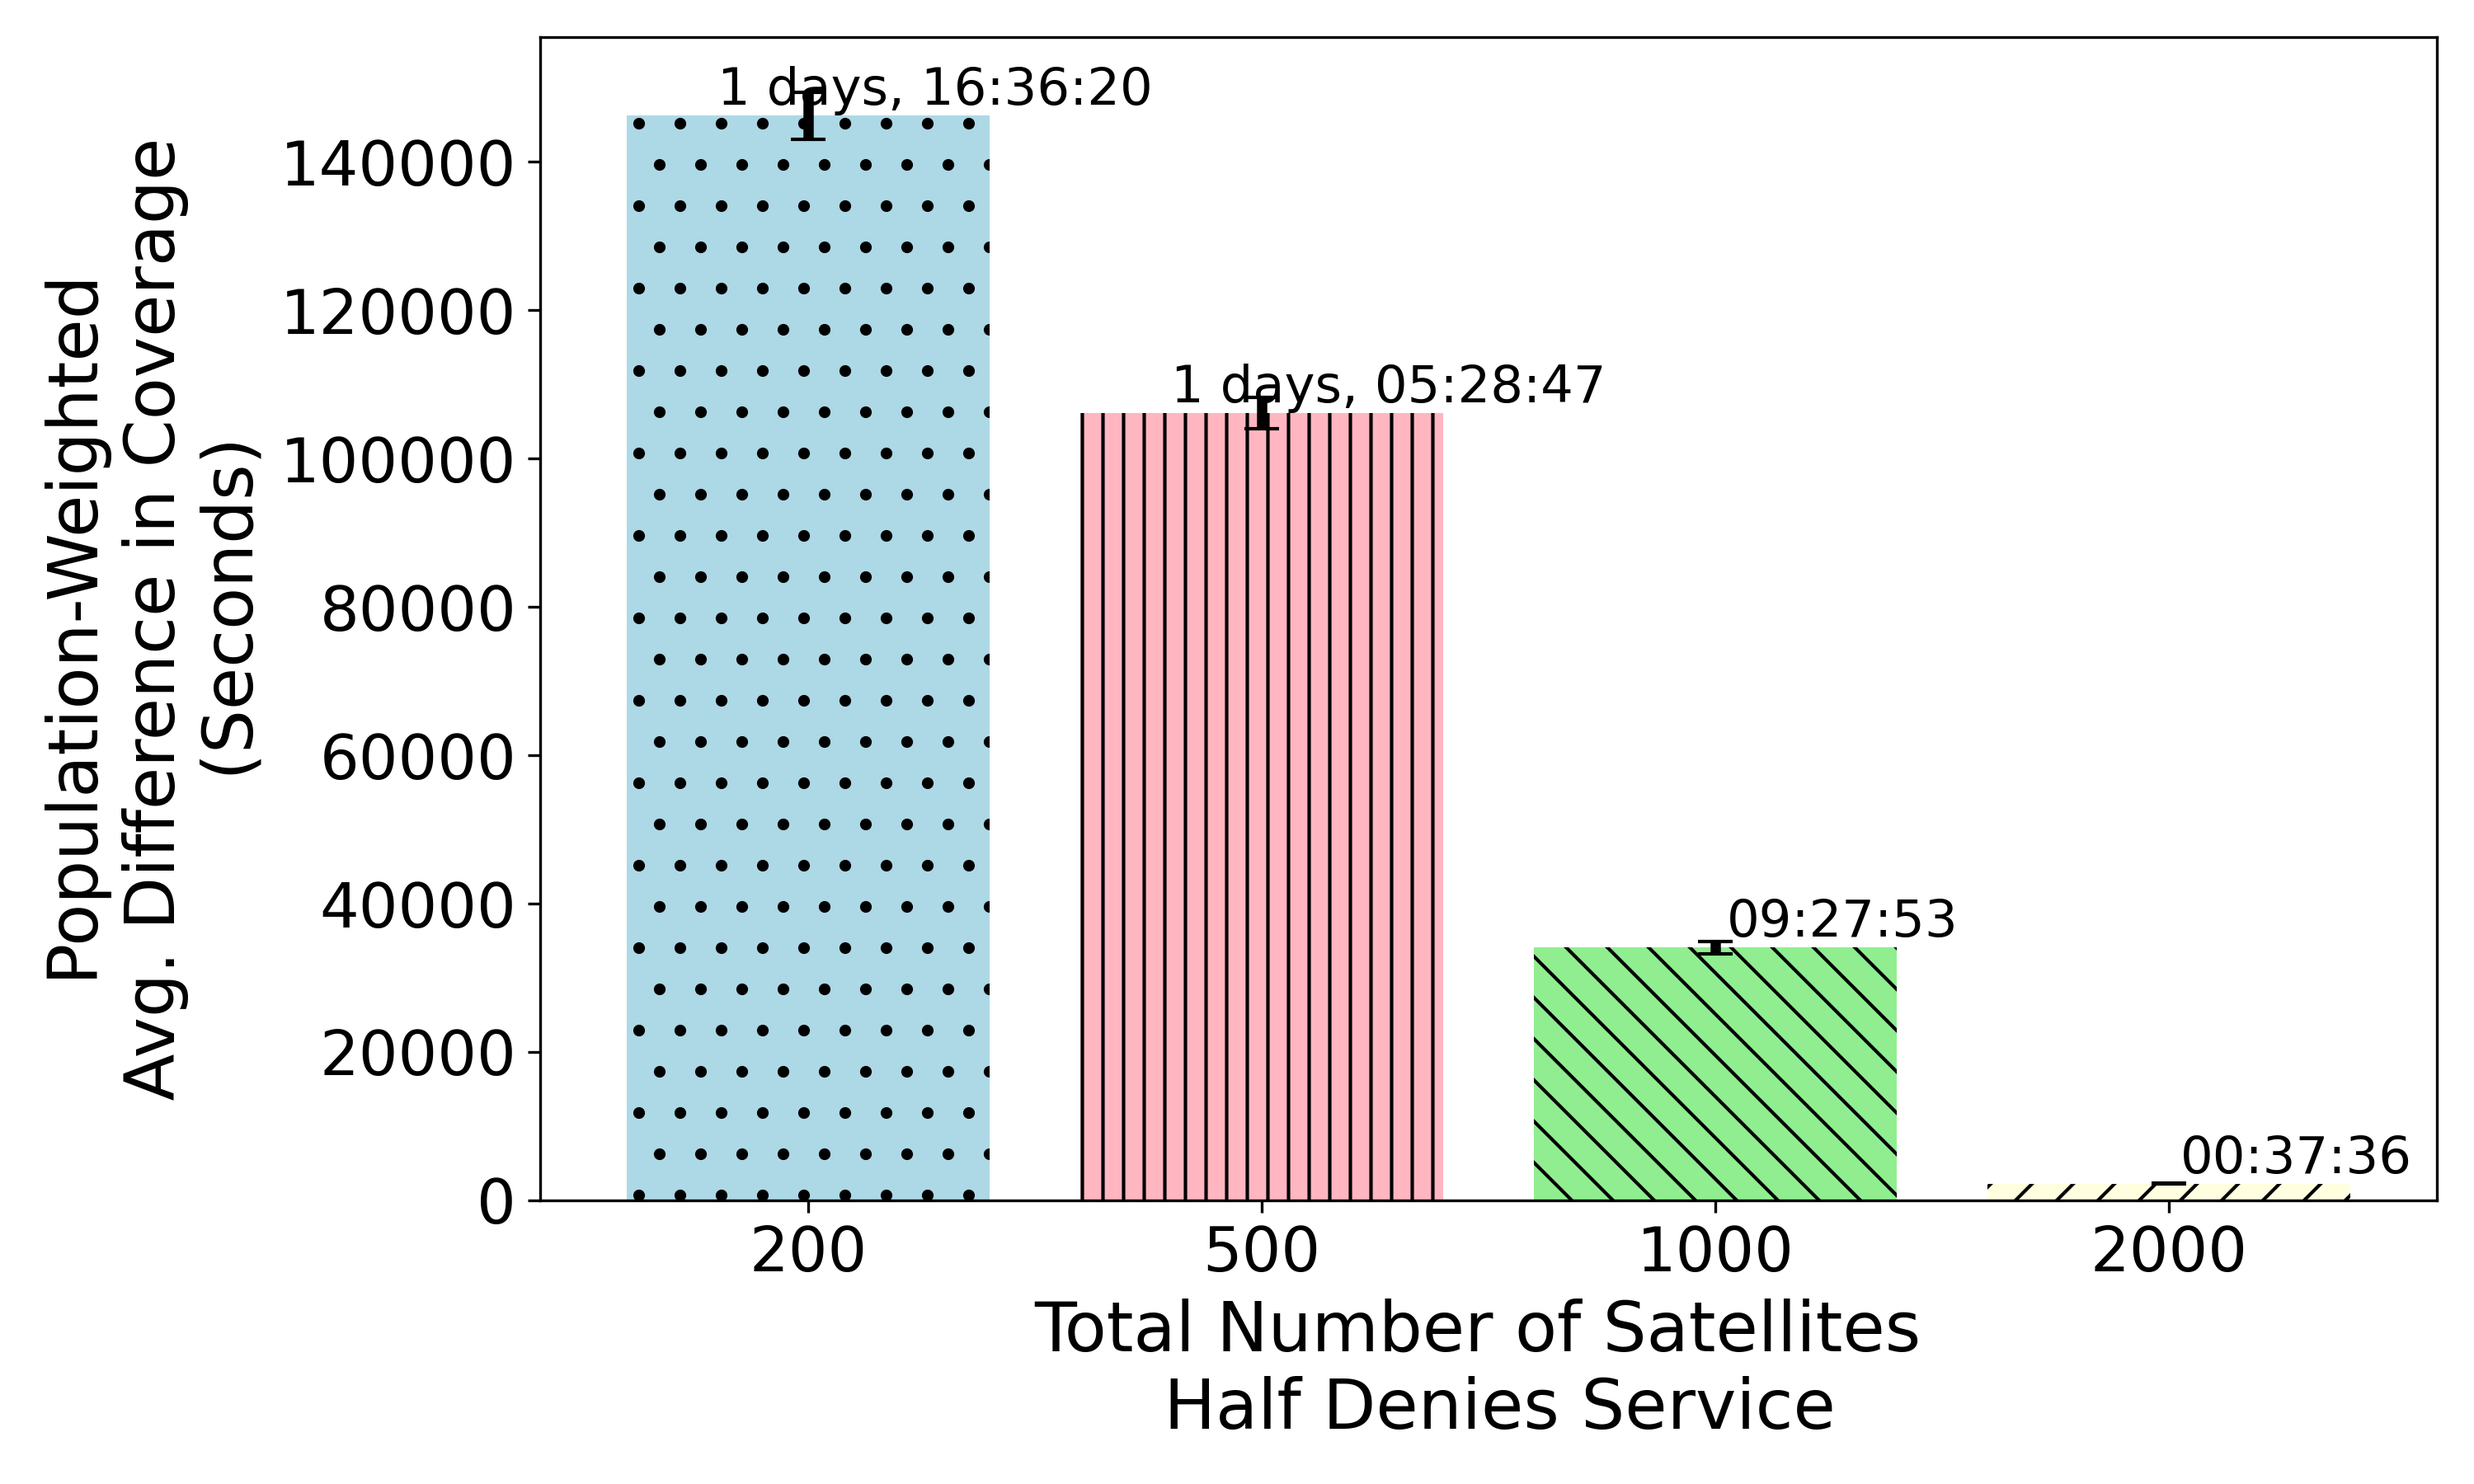
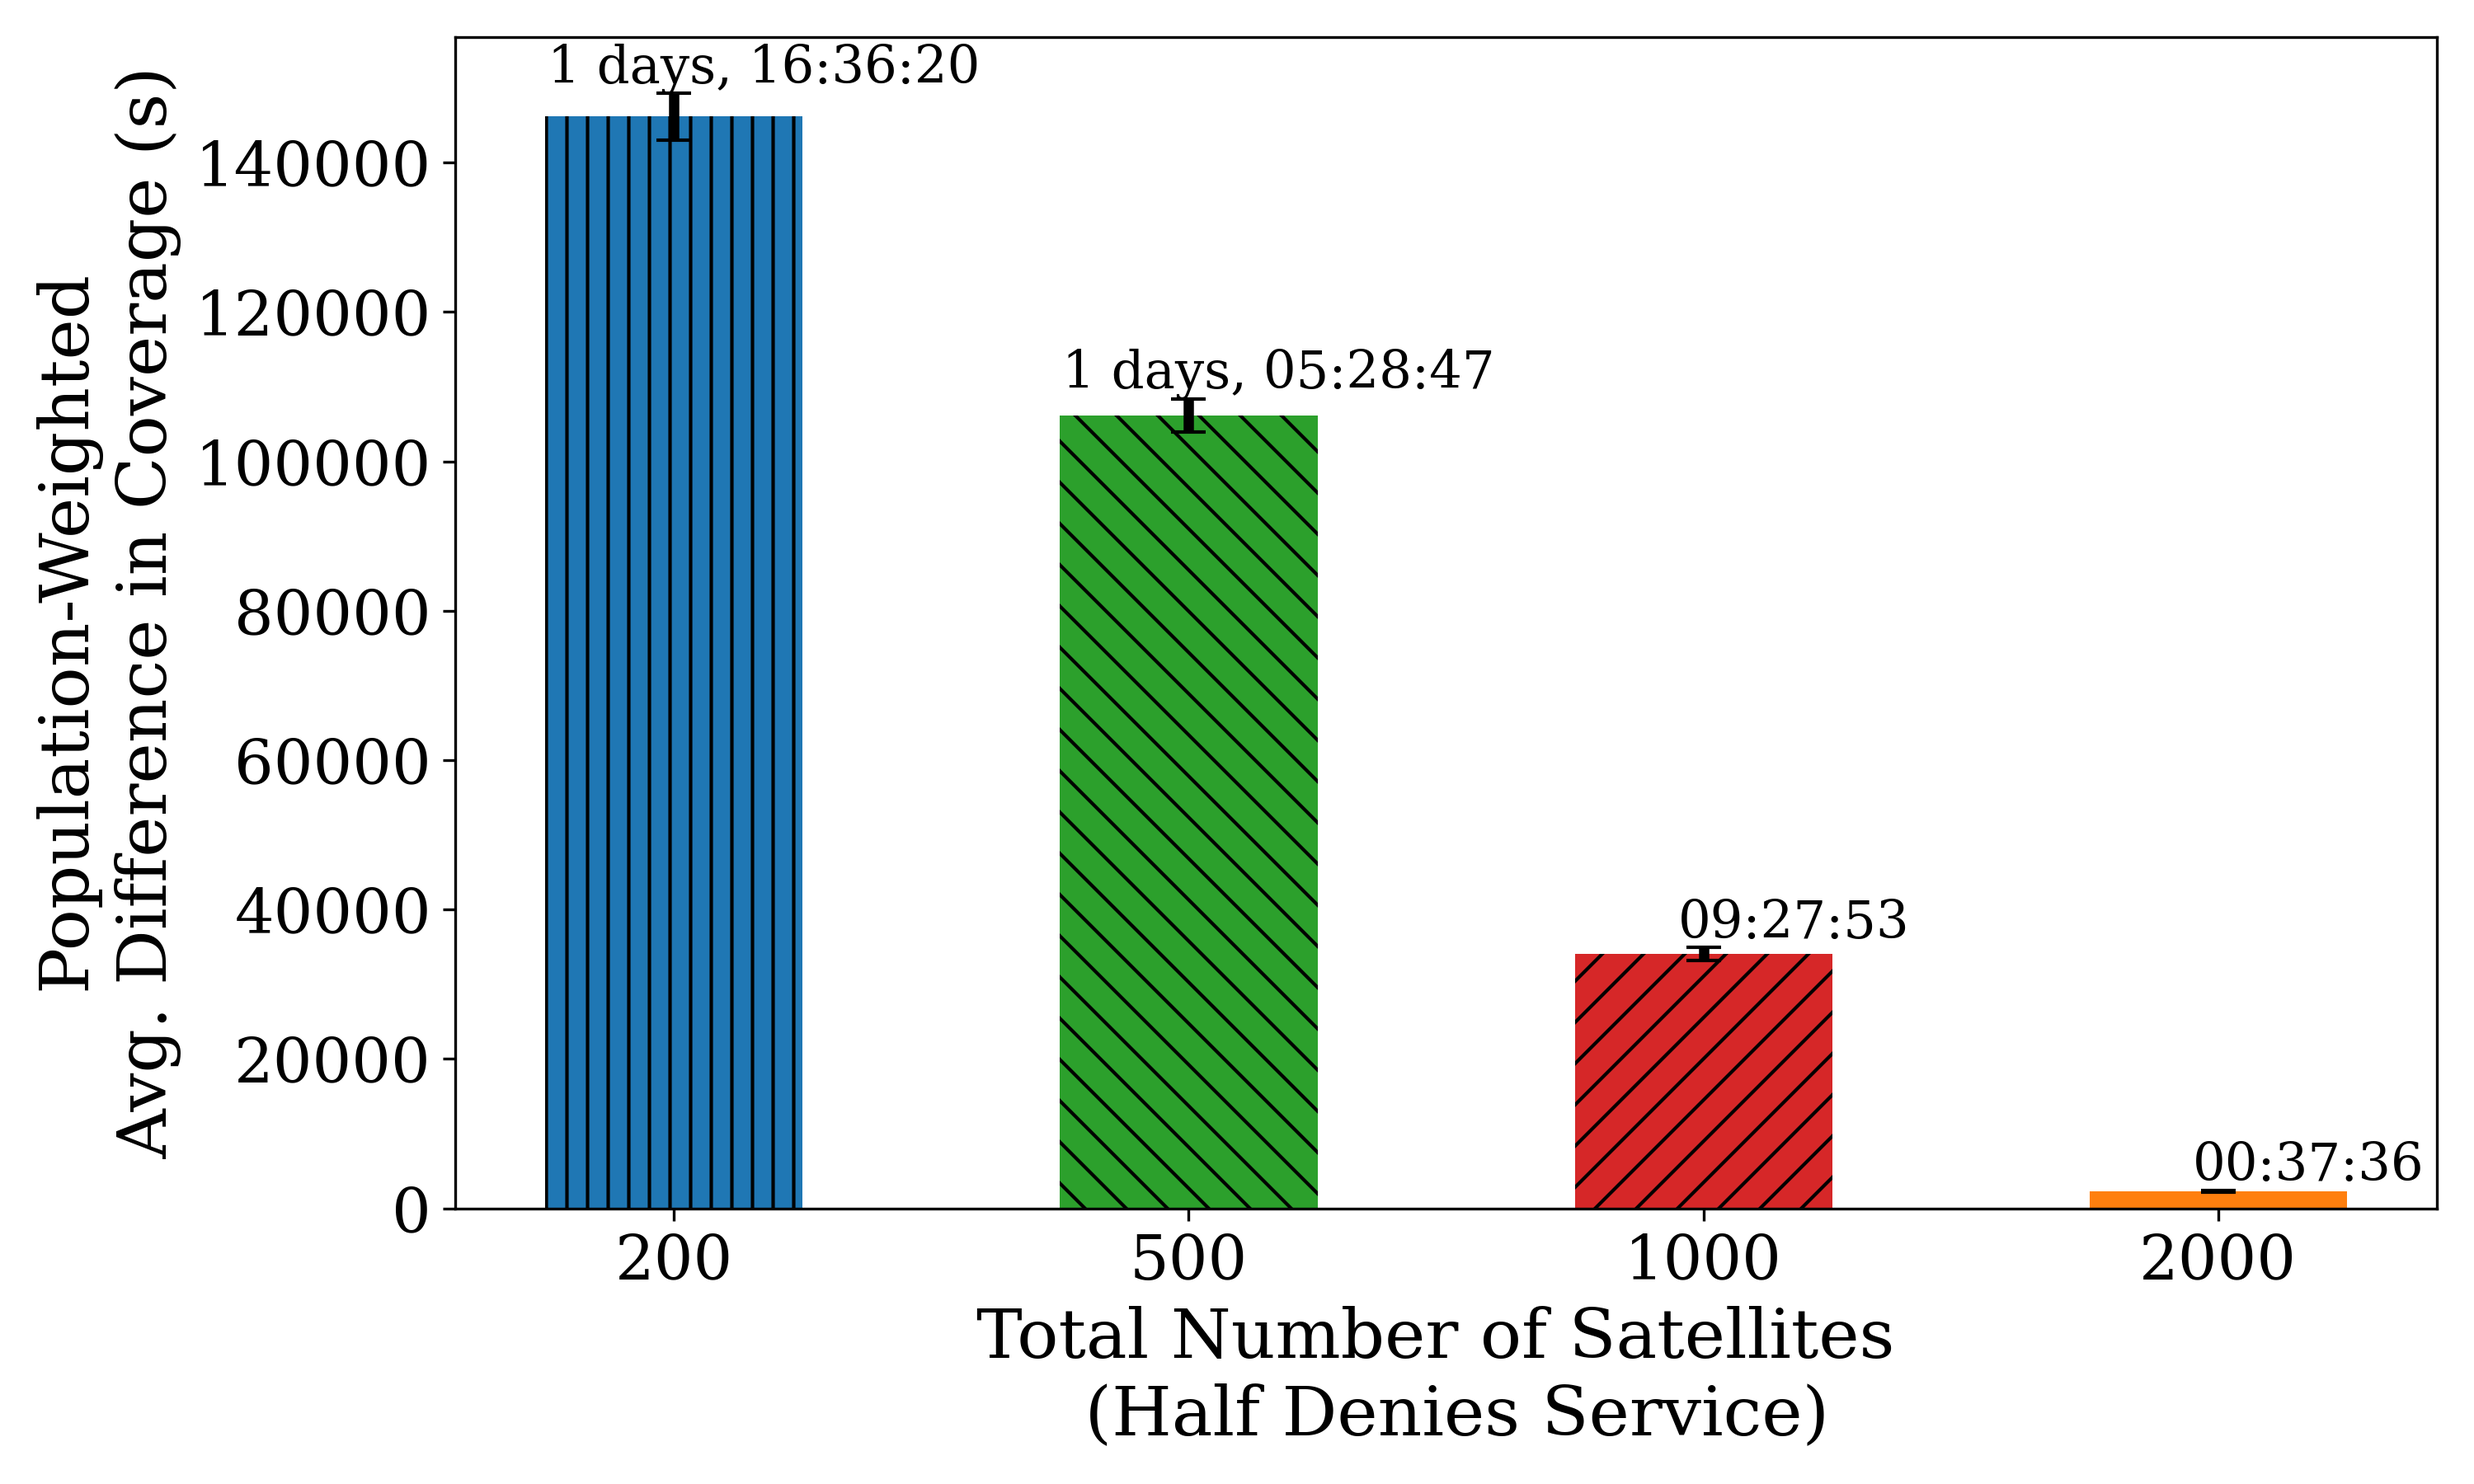
updated plots

Changed region(s): [[0.0, 0.0311, 0.992, 0.9644]]

diff --git a/Simulation_SY/plot_gap_duration_difference_plus1.py b/Simulation_SY/plot_gap_duration_difference_plus1.py
@@ -126,10 +126,10 @@ def main():
             min_max_values.append((0, 0))
             print(f"No durations found for file prefix: {file_prefix}")
 
-    fig, ax = plt.subplots(figsize = (15,6))
+    fig, ax = plt.subplots()
     labels = [label for _, label in files_info]
-    ax.bar(labels, results, yerr=np.array(errors).T, capsize=5, color=colors, hatch=hatches)
-    ax.set_ylabel('Population-Weighted \n Average Coverage Difference \n (Seconds)')
+    ax.bar(labels, results, yerr=np.array(errors).T, capsize=5, color=colors, hatch=hatches, width = 0.7)
+    ax.set_ylabel('Population-Weighted \n Average Coverage Difference (s)')
     ax.set_xlabel('Base Number of Satellites (1, 100, 500)')
     # ax.set_title('Average Time Difference From Original Gaps')
 
@@ -138,9 +138,9 @@ def main():
         bar_height = bar.get_height()
         ax.text(bar.get_x() + bar.get_width() / 2, bar_height + errors[i][1], f"Max: {format_seconds(max_val / (total_population / num_cities))}", ha='center', va='bottom', fontsize=annotation_fontsize)
         # ax.text(bar.get_x() + bar.get_width() / 2, bar_height - errors[i][0], f"Min: {format_seconds(min_val / total_population)}", ha='center', va='top', fontsize=annotation_fontsize)
-
-    plt.savefig('plot_gap_duration_difference_plus1_min_max_cities.png', dpi=300)
-    print("Plot saved as 'plot_gap_duration_difference_plus1_min_max_cities.png'")
+    plt.tight_layout()
+    plt.savefig('plot_gap_duration_difference_plus1.png', dpi=300)
+    print("Plot saved as 'plot_gap_duration_difference_plus1.png'")
 
 if __name__ == "__main__":
     main()

diff --git a/Simulation_SY/plot_config.py b/Simulation_SY/plot_config.py
@@ -4,8 +4,8 @@ import numpy as np
 
 matplotlib.rcParams['pdf.fonttype'] = 42
 matplotlib.rcParams['ps.fonttype'] = 42
-matplotlib.rcParams['font.family'] = 'sans-serif'
-matplotlib.rcParams['font.sans-serif'] = ['DejaVu Sans']
+matplotlib.rcParams['font.family'] = 'serif'
+matplotlib.rcParams['font.sans-serif'] = ['Times New Roman']
 
 linewidth = 3
 xyfontsize = 20
@@ -23,17 +23,20 @@ plt.rcParams['figure.figsize'] = figsize
 plt.rcParams['lines.linewidth'] = linewidth
 plt.rcParams["xtick.direction"] = "out"
 plt.rcParams["ytick.direction"] = "out"
-hatches = ['.', '||', '\\\\', '//', '-', '+', 'x', 'o', 'O', '*', '.', '||']
+hatches = ['||', '\\\\', '//', '-','.', '+', 'x', 'o', 'O', '*', '.', '||']
 
 experiment_colors = [
-    'lightblue', 'lightpink', 'lightgreen', 'lightyellow', 'lightgrey',
-    'peachpuff', 'floralwhite', 'lightcoral', 'lightgoldenrodyellow', 'lightcyan',
-    'lavender', 'honeydew', 'mintcream', 'azure', 'aliceblue', 'mistyrose'
+    '#1f77b4',  # muted blue
+    '#2ca02c',  # muted green
+    '#d62728',  # muted red
+    '#ff7f0e',  # muted orange
+    '#9467bd',  # muted purple
+    '#8c564b',  # muted brown
+    '#e377c2',  # muted pink
+    '#7f7f7f',  # muted gray
+    '#bcbd22',  # muted olive
+    '#17becf'   # muted cyan
 ]
 
 linestyle_list = ['solid', 'dotted', 'dashed', 'dashdot', (0, (5, 1)), (0, (3, 1, 1, 1, 1, 1)), (0, (3, 1, 1, 1, 1, 1))]
 
-def plot_cdf(data, linestyle='none', label='none'):
-    data_sorted = np.sort(data)
-    cdf = np.linspace(0, 1, len(data))
-    plt.plot(data_sorted, cdf,  linestyle=linestyle, label=label)

diff --git a/Simulation_SY/plot_gap_duration_difference_robustness_num.py b/Simulation_SY/plot_gap_duration_difference_robustness_num.py
@@ -116,20 +116,19 @@ def main():
 
     fig, ax = plt.subplots() 
     labels = satellite_counts
-    bars = ax.bar(labels, results, yerr=errors, capsize=5, color=colors, hatch=hatches)
-    ax.set_xlabel('Total Number of Satellites \n Half Denies Service')
-    ax.set_ylabel('Population-Weighted \n Avg. Difference in Coverage \n (Seconds)')
+    bars = ax.bar(labels, results, yerr=errors, capsize=5, color=colors, hatch=hatches, width = 0.5)
+    ax.set_xlabel('Total Number of Satellites \n (Half Denies Service)')
+    ax.set_ylabel('Population-Weighted \n Avg. Difference in Coverage (s)')
     # ax.set_title('Avg. Time Difference from Original Gaps')
-
+    plt.tight_layout() 
     for bar in bars:
         height = bar.get_height()
         formatted_label = format_seconds(height)
-        ax.text(bar.get_x() + bar.get_width() * 0.85, height, formatted_label, ha='center', va='bottom', fontsize=plot_config.annotation_fontsize)
+        ax.text(bar.get_x() + bar.get_width() * 0.85, height * 1.02, formatted_label, ha='center', va='bottom', fontsize=plot_config.annotation_fontsize)
 
     plt.xticks()
-    plt.tight_layout() 
-    plt.savefig('plot_gap_duration_difference_resilience_num.png', dpi=300) 
-    print("Plot saved as 'plot_gap_duration_difference_resilience_num.png'")
+    plt.savefig('plot_gap_duration_difference_robustness_num.png', dpi=300) 
+    print("Plot saved as 'plot_gap_duration_difference_robustness_num.png'")
     # plt.show()
 
 if __name__ == "__main__":

diff --git a/Simulation_SY/plot_gap_analysis_numsat.py b/Simulation_SY/plot_gap_analysis_numsat.py
@@ -63,7 +63,7 @@ sorted_data = sorted(data.items())
 for num_sat, (avg_total_gap_duration, largest_gap) in sorted_data:
     print(f"Number of Satellites: {num_sat}, Average Total Gap Duration: {avg_total_gap_duration:.2f} seconds, Largest Gap: {largest_gap:.2f} seconds")
 
-fig, ax1 = plt.subplots(figsize=(10,6))
+fig, ax1 = plt.subplots()
 avg_total_gaps = [item[1][0] for item in sorted_data]
 largest_gaps = [item[1][1] for item in sorted_data]
 
@@ -76,16 +76,16 @@ ax2 = ax1.twinx()
 rects2 = ax2.bar(index + bar_width/2, largest_gaps, bar_width, color='red', label='Largest Gap', hatch=plot_config.hatches[1], alpha=0.5)
 
 ax1.set_xlabel('Number of Satellites')
-ax1.set_ylabel('Average Total Gap Duration (seconds)', color='blue')
-ax2.set_ylabel('Largest Gap (seconds)', color='red')
+ax1.set_ylabel('Average Total Gap Duration (s)', color='blue')
+ax2.set_ylabel('Largest Gap (s)', color='red')
 ax1.set_xticks(index)
-ax1.set_xticklabels([item[0] for item in sorted_data])
+ax1.set_xticklabels([item[0] for item in sorted_data], rotation=45, ha='right')
 ax1.tick_params(axis='y', labelcolor='blue')
 ax2.tick_params(axis='y', labelcolor='red')
 
 fig.tight_layout()
-ax1.legend(loc='upper left')
-ax2.legend(loc='upper right')
+ax1.legend(loc='upper right', bbox_to_anchor=(1, 1))
+ax2.legend(loc='upper right',bbox_to_anchor=(1, 0.88))
 
 plt.savefig('plot_gap_analysis_numsat.png')
 print("Plot saved as 'plot_gap_analysis_numsat.png'")

diff --git a/Simulation_SY/plot_gap_duration_difference_ablation.py b/Simulation_SY/plot_gap_duration_difference_ablation.py
@@ -124,18 +124,18 @@ def main():
             errors.append(0)
             print(f"No durations found for file prefix: {file_prefix}")
 
-    fig, ax = plt.subplots(figsize=(15, 6))
+    fig, ax = plt.subplots()
     labels = [label for _, label in files_info]
-    bars = ax.bar(labels, results, yerr=errors, capsize=5, color=colors, hatch=hatches)
+    bars = ax.bar(labels, results, yerr=errors, capsize=5, color=colors, hatch=hatches, width = 0.4)
     ax.set_xlabel('Type of Satellite Added')
-    ax.set_ylabel('Population-Weighted \n Average Coverage Difference \n (Seconds)')
+    ax.set_ylabel('Population-Weighted \n Average Coverage Difference (s)')
     # ax.set_title('Average Time Difference From Original Gaps')
 
     for bar in bars:
         height = bar.get_height()
         formatted_label = format_seconds(height)
-        ax.text(bar.get_x() + bar.get_width() * 0.85, height, formatted_label, ha='center', va='bottom', fontsize=plot_config.annotation_fontsize)
-
+        ax.text(bar.get_x() + bar.get_width() * 0.9, height, formatted_label, ha='center', va='bottom', fontsize=annotation_fontsize)
+    plt.tight_layout()
     plt.savefig('plot_gap_duration_difference_ablation.png', dpi=300)
     print("Plot saved as 'plot_gap_duration_difference_ablation.png'")
 

diff --git a/Simulation_SY/plot_gap_duration_difference_robustness_ratio.py b/Simulation_SY/plot_gap_duration_difference_robustness_ratio.py
@@ -126,15 +126,16 @@ def main():
 
     fig, ax = plt.subplots()
     bars = ax.bar(new_labels, results, yerr=errors, capsize=5, color=colors, hatch=hatches)
-    ax.set_ylabel('Population-Weighted \n Avg. Difference in Coverage \n (Seconds)')
-    ax.set_xlabel('Ratio Between Different Parties \n (Total: 1000 Satellites \n Largest Party Denies Service)')
+    ax.set_ylabel('Population-Weighted \n Avg. Difference in Coverage (s)')
+    ax.set_xlabel('Ratio Between Different Parties \n (Total 1000 Satellites, Largest Party Denies Service)')
 
     for bar, label in zip(bars, avg_labels):
         height = bar.get_height()
-        ax.text(bar.get_x() + bar.get_width() * 0.85, height, label, ha='center', va='bottom', fontsize=plot_config.annotation_fontsize)
+        # ax.text(bar.get_x() + bar.get_width() * 0.85, height, label, ha='center', va='bottom', fontsize=plot_config.annotation_fontsize)
 
     plt.xticks(rotation=45, ha='right')
     plt.tight_layout()
+    plt.subplots_adjust(top=0.95)
     plt.savefig('plot_gap_duration_difference_robustness_ratio.png', dpi=300)
     print("Plot saved as 'plot_gap_duration_difference_robustness_ratio.png'")
 

diff --git a/Simulation_SY/plot_gap_duration_difference_plus1_phase.py b/Simulation_SY/plot_gap_duration_difference_plus1_phase.py
@@ -116,12 +116,14 @@ def main():
         else:
             print(f"No durations found for satellite {satellite_num + 1}")
 
-    plt.figure(figsize=(15, 6))
-    plt.plot(satellite_numbers, weighted_avg_coverage_time_diff, marker='o', linestyle='-', color='skyblue')
-    plt.xlabel('Distance from Satellite 0 (km)')
-    plt.ylabel('Population-Weighted \n Average Coverage Time Difference \n (seconds)')
+    plt.figure(figsize=(10, 6))
+    plt.plot(satellite_numbers, weighted_avg_coverage_time_diff, marker='o', linestyle='-')
+    plt.xlabel('Distance from Original Satellite (km)')
+    plt.ylabel('Population-Weighted \n Average Coverage Time Difference (s)')
     plt.grid(True)
     
+    plt.tight_layout()
+    plt.subplots_adjust(top=0.95)
     plt.savefig("plot_gap_duration_difference_plus1_phase.png")
     print("Plot saved as 'plot_gap_duration_difference_plus1_phase.png'")
 

diff --git a/Simulation_SY/plot_gap_analysis_numcity.py b/Simulation_SY/plot_gap_analysis_numcity.py
@@ -69,12 +69,17 @@ def main():
         print(f"Number of cities: {n}, Idle Percentage: {idle_percentage}")  
 
     # Plotting the data
-    plt.figure()
+    plt.figure(figsize = (10,6))
     plt.plot(num_cities, idle_percentages, marker='o')
     plt.xlabel('Number of Cities')
     plt.ylabel('Idle Time Percentage (%)')
     plt.grid(True)
     plt.xticks(range(1, max_cities + 1))
+
+    y_ticks = range(88, 101, 2)  # You can adjust this range as needed
+    y_labels = [str(tick) for tick in y_ticks]
+    plt.yticks(ticks=y_ticks, labels=y_labels)
+    plt.tight_layout()
     plt.savefig("plot_gap_analysis_numcity.png")
     print("Plot saved as plot_gap_analysis_numcity.png") 
 
